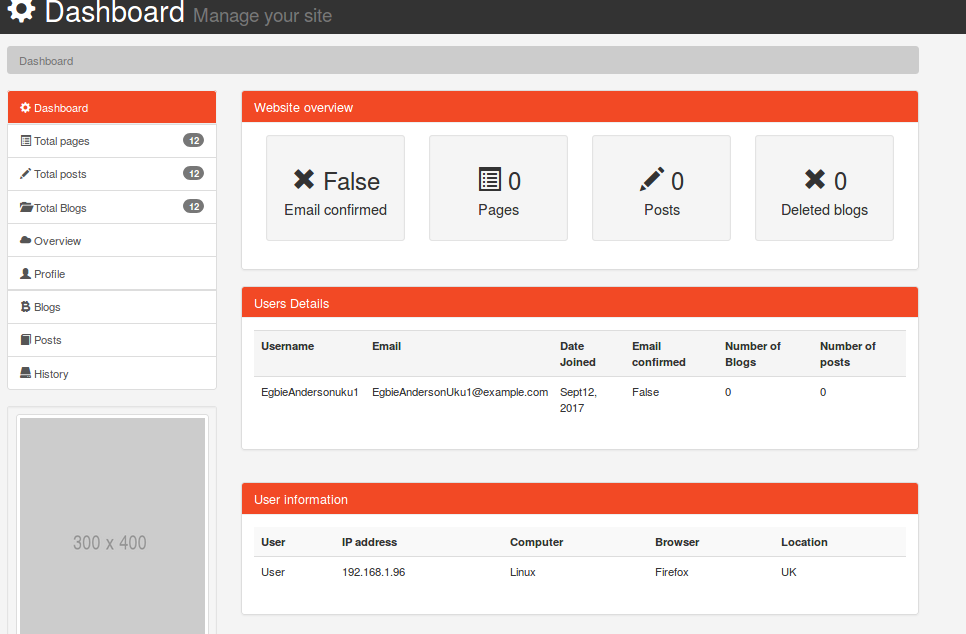
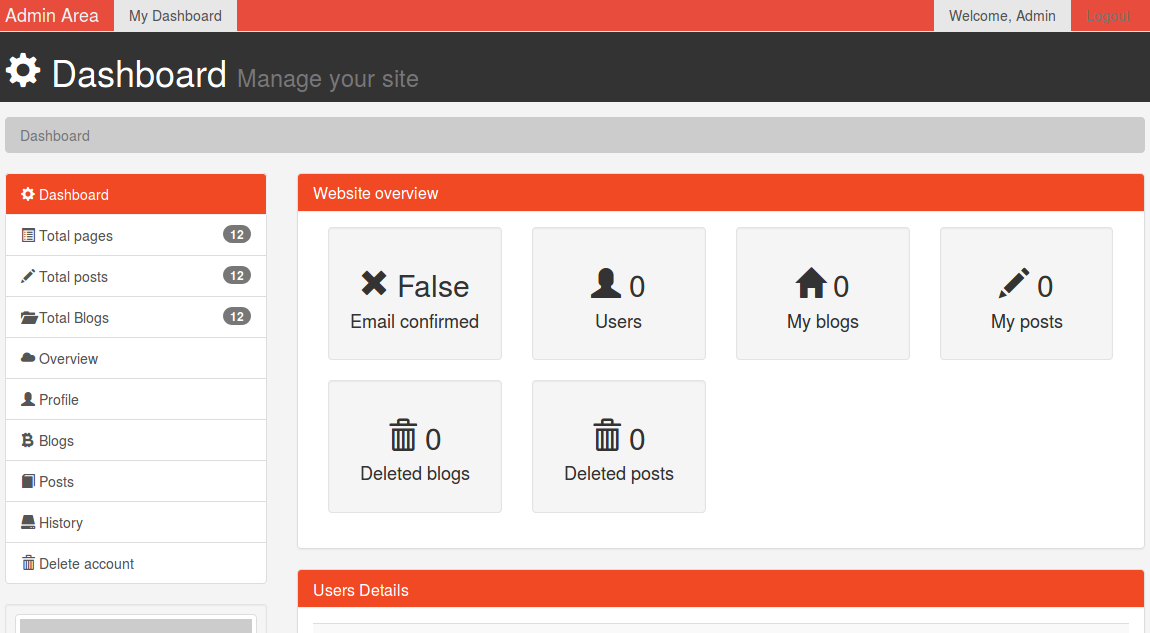
update screenshots for the admin dashboard profile

diff --git a/src/templates/admin/overview.html b/src/templates/admin/overview.html
@@ -19,24 +19,39 @@
 
             <div class="col-md-3">
               <div class="well dash-box">
-                <h2><span class="glyphicon glyphicon-list-alt" aria-hidden="true"></span> 0</h2>
-                <h4>Pages</h4>
+                <h2><span class="glyphicon glyphicon-user" aria-hidden="true"></span> 0</h2>
+                <h4>Users</h4>
               </div>
 
             </div>
 
+                        <div class="col-md-3">
+              <div class="well dash-box">
+                <h2><span class="glyphicon glyphicon-home" aria-hidden="true"></span> 0</h2>
+                <h4>My blogs</h4>
+              </div>
+
+            </div>
             <div class="col-md-3">
               <div class="well dash-box">
                 <h2><span class="glyphicon glyphicon-pencil" aria-hidden="true"></span> 0</h2>
-                <h4>Posts</h4>
+                <h4>My posts</h4>
               </div>
             </div>
 
             <div class="col-md-3">
               <div class="well dash-box">
-                <h2><span class="glyphicon glyphicon-remove" aria-hidden="true"></span> 0 </h2>
+                <h2><span class="glyphicon glyphicon-trash" aria-hidden="true"></span> 0 </h2>
                 <h4>Deleted blogs</h4>
               </div>
+            </div>
+
+                        <div class="col-md-3">
+              <div class="well dash-box">
+                <h2><span class="glyphicon glyphicon-trash" aria-hidden="true"></span> 0</h2>
+                <h4>Deleted posts</h4>
+              </div>
+
             </div>
           </div>
         </div>

diff --git a/src/run.py b/src/run.py
@@ -12,5 +12,5 @@ def create_shell():
       return dict(app=create_app)
 
 if  __name__ == '__main__':
-    manager.run()
+    manager.run() # start the flask web server by running the command: 'python run.py runserver' in the command line
 
